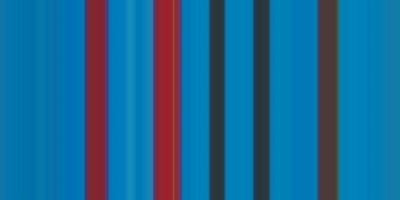
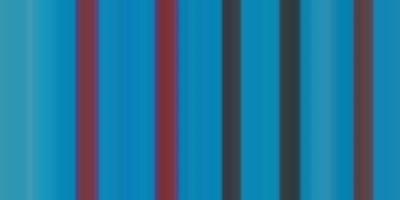
I need to change color masks

diff --git a/resistor_detect_new_logic.py b/resistor_detect_new_logic.py
@@ -25,9 +25,9 @@ COLOUR_BOUNDS = [
     [(30, 76, 89), (87, 255, 184), "GREEN", 5, (0, 255, 0)],
     [(113, 40, 82), (125, 255, 255), "BLUE", 6, (255, 0, 0)],
     [(130, 40, 100), (140, 250, 220), "PURPLE", 7, (255, 0, 127)],
-    [(0, 0, 50), (179, 50, 80), "GRAY", 8, (128, 128, 128)],
+    [(0, 0, 0), (0, 0, 0), "GRAY", 8, (128, 128, 128)],
     [(0, 0, 0), (0, 0, 0), "WHITE", 9, (255, 255, 255)],  # Ignored for now
-    [(19, 120, 80), (23, 255, 255), "GOLD", 10, (0, 215, 255)],
+    [(0, 0, 0), (0, 0, 0), "GOLD", 10, (0, 215, 255)],
     [(0, 0, 0), (0, 0, 50), "SILVER", 11, (192, 192, 192)]
 ]
 
@@ -102,8 +102,8 @@ def load_and_detect_resistors(image_path):
     return img, resistors
 
 def crop_resistor(img, x, y, w, h):
-    start_x = x + 110
-    end_x = x + w - 110
+    start_x = x + 50
+    end_x = x + w - 50
     start_y = max(y + h // 2, 0)
     end_y = min(start_y + 20, img.shape[0])
     return img[start_y:end_y, start_x:end_x]
@@ -276,7 +276,7 @@ def main(image_path):
         median_img = compute_vertical_medians(preprocessed_img)
         cv2.imwrite(f"median_resistor_{i}.jpg", median_img)
         bands = findBands(median_img, DEBUG=True)
-        results = printResult(bands, img, (x, y, w, h), DEBUG)
+        results = printResult(bands, img, (x, y, w, h), True)
 
         if results:
             resistance_value = int(results[0].split()[0])

diff --git a/test3.py b/test3.py
@@ -58,7 +58,7 @@ def show_region_and_all_matched_areas(event, x, y, flags, param):
         cv2.imshow("Statistics", stats_img)
 
 # Load an image
-image = cv2.imread('Median.jpg')
+image = cv2.imread('median_resistor_0.jpg')
 # image = cv2.resize(image, (0,0), fx=0.3, fy=0.3)
 
 # Check if image is loaded properly
